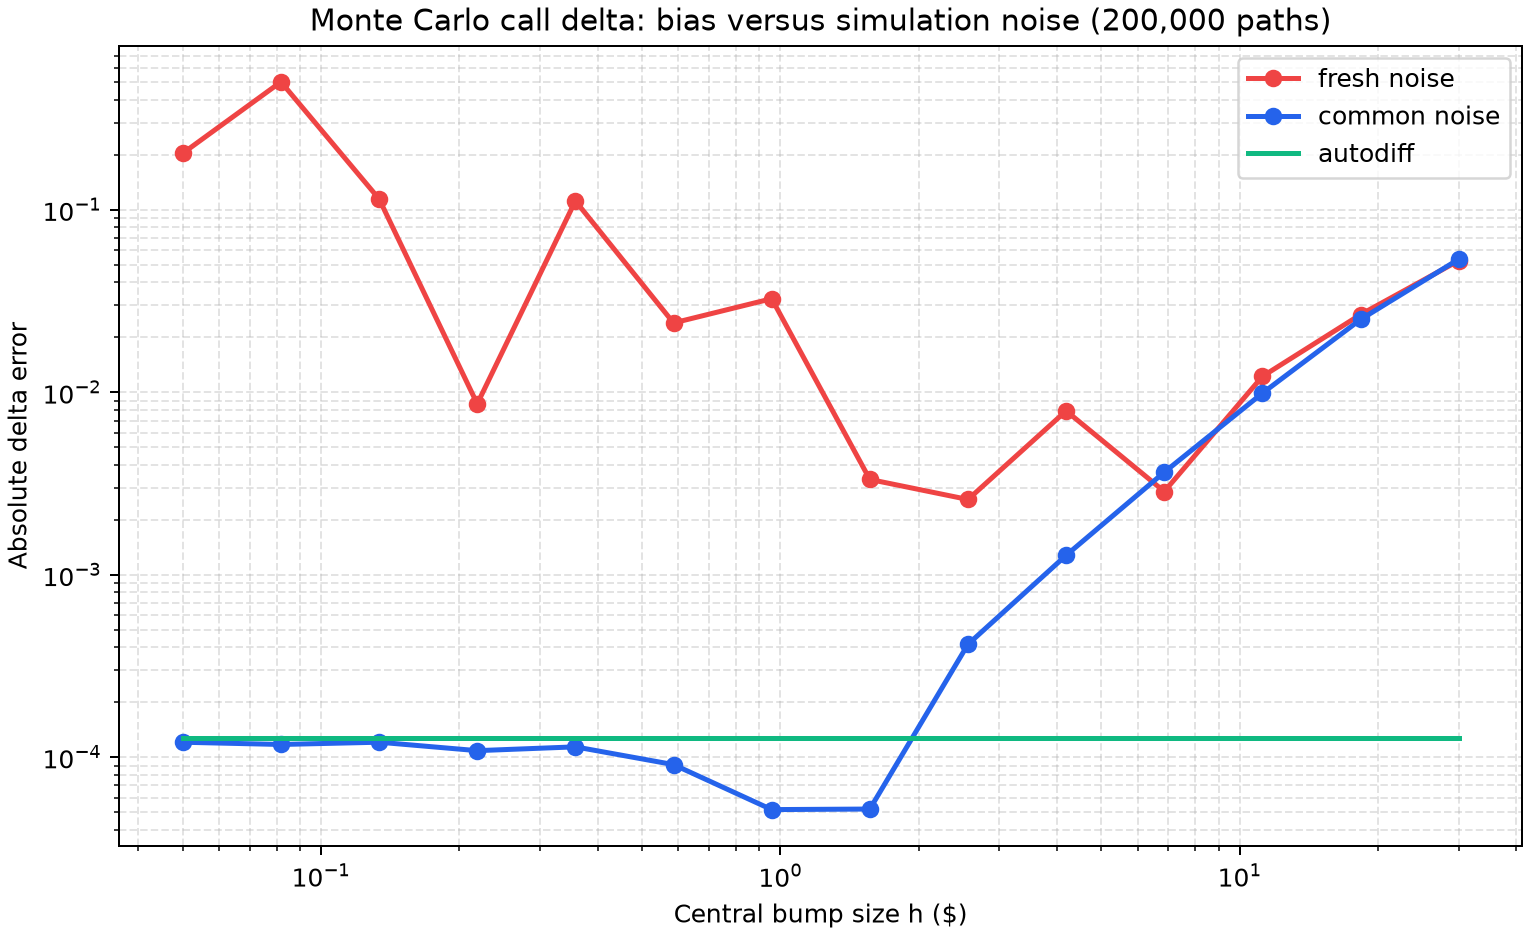
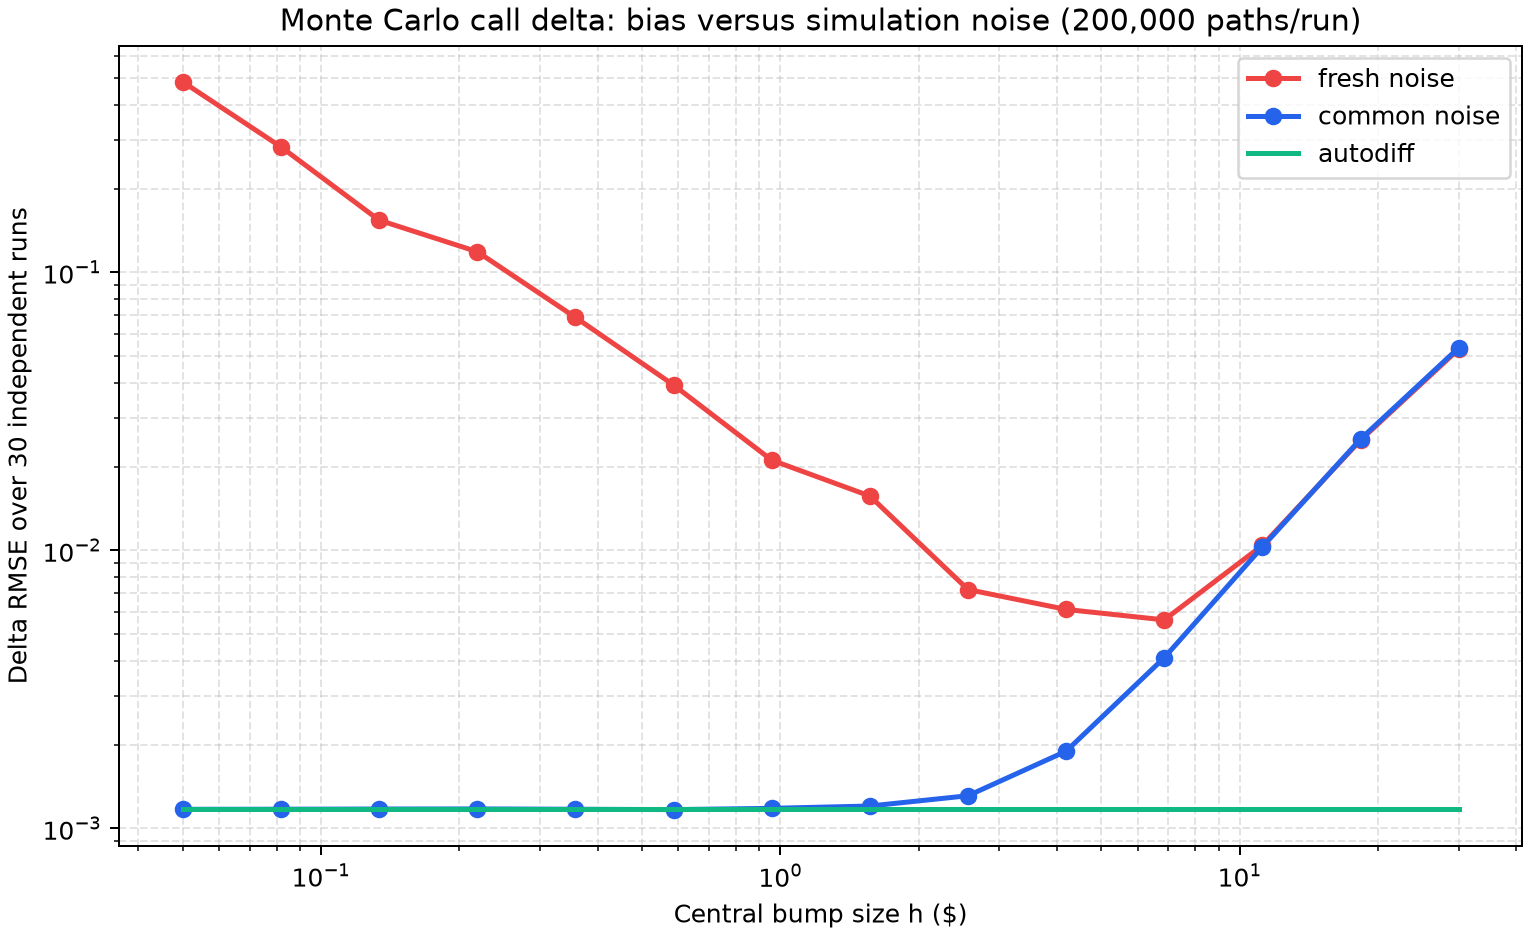
Improve Greeks Monte Carlo experiments

diff --git a/02-greeks-autodiff/src/run_analysis.py b/02-greeks-autodiff/src/run_analysis.py
@@ -38,40 +38,80 @@ def run(num_paths: int = 200_000) -> None:
 
     RESULTS.mkdir(exist_ok=True)
     option = Option()
-    key = jax.random.PRNGKey(SEED)
-    keys = jax.random.split(key, 2 * 14 + 2)
+    bumps = np.geomspace(0.05, 30.0, 14)
+    repeats = 30
+    temperatures = (0.05, 0.1, 0.25, 0.5, 1.0, 2.0)
+    keys = jax.random.split(
+        jax.random.PRNGKey(SEED),
+        2 + repeats * (1 + 2 * len(bumps)),
+    )
     z_price = jax.random.normal(keys[0], (num_paths,), dtype=jnp.float64)
     z_gamma = jax.random.normal(keys[1], (num_paths,), dtype=jnp.float64)
     exact_price, exact_delta, exact_gamma = black_scholes_price_delta_gamma(option)
 
     price = price_mc(option.spot, z_price, option)
     autodiff = delta_autodiff(option.spot, z_price, option)
-    bumps = np.geomspace(0.05, 30.0, 14)
     rows: list[dict[str, float | str]] = []
 
+    delta_samples: dict[str, list[list[float]]] = {
+        method: [[] for _ in bumps]
+        for method in ("fresh noise", "common noise", "autodiff")
+    }
+    delta_standard_errors: dict[str, list[list[float]]] = {
+        method: [[] for _ in bumps]
+        for method in ("fresh noise", "common noise", "autodiff")
+    }
+    keys_per_repeat = 1 + 2 * len(bumps)
+    for repeat in range(repeats):
+        key_offset = 2 + repeat * keys_per_repeat
+        z_common = jax.random.normal(keys[key_offset], (num_paths,), dtype=jnp.float64)
+        autodiff_repeat = delta_autodiff(option.spot, z_common, option)
+        for index, bump in enumerate(bumps):
+            z_up = jax.random.normal(
+                keys[key_offset + 1 + 2 * index], (num_paths,), dtype=jnp.float64
+            )
+            z_down = jax.random.normal(
+                keys[key_offset + 2 + 2 * index], (num_paths,), dtype=jnp.float64
+            )
+            estimates = (
+                ("fresh noise", delta_fresh_noise(option.spot, float(bump), z_up, z_down, option)),
+                ("common noise", delta_common_noise(option.spot, float(bump), z_common, option)),
+                ("autodiff", autodiff_repeat),
+            )
+            for method, estimate in estimates:
+                delta_samples[method][index].append(estimate.value)
+                delta_standard_errors[method][index].append(estimate.standard_error)
+
     for index, bump in enumerate(bumps):
-        z_up = jax.random.normal(keys[2 + 2 * index], (num_paths,), dtype=jnp.float64)
-        z_down = jax.random.normal(keys[3 + 2 * index], (num_paths,), dtype=jnp.float64)
-        fresh = delta_fresh_noise(option.spot, float(bump), z_up, z_down, option)
-        common = delta_common_noise(option.spot, float(bump), z_price, option)
-        for method, estimate in (
-            ("fresh noise", fresh),
-            ("common noise", common),
-            ("autodiff", autodiff),
-        ):
+        for method in ("fresh noise", "common noise", "autodiff"):
+            sample_values = np.asarray(delta_samples[method][index])
+            mean_estimate = float(sample_values.mean())
+            rmse = float(np.sqrt(np.mean((sample_values - exact_delta) ** 2)))
             rows.append(
                 {
                     "method": method,
                     "bump": float(bump),
-                    "estimate": estimate.value,
-                    "absolute_error": abs(estimate.value - exact_delta),
-                    "standard_error": estimate.standard_error,
+                    "runs": repeats,
+                    "mean_estimate": mean_estimate,
+                    "rmse": rmse,
+                    "mean_standard_error": float(
+                        np.mean(delta_standard_errors[method][index])
+                    ),
                 }
             )
 
     with (RESULTS / "delta_estimates.csv").open("w", newline="") as file:
         writer = csv.DictWriter(
-            file, fieldnames=("method", "bump", "estimate", "absolute_error", "standard_error")
+            file,
+            fieldnames=(
+                "method",
+                "bump",
+                "runs",
+                "mean_estimate",
+                "rmse",
+                "mean_standard_error",
+            ),
+            lineterminator="\n",
         )
         writer.writeheader()
         writer.writerows(rows)
@@ -82,7 +122,7 @@ def run(num_paths: int = 200_000) -> None:
         method_rows = [row for row in rows if row["method"] == method]
         ax.loglog(
             [row["bump"] for row in method_rows],
-            [max(row["absolute_error"], 1e-8) for row in method_rows],
+            [row["rmse"] for row in method_rows],
             marker="o" if method != "autodiff" else None,
             linewidth=2,
             color=colors[method],
@@ -90,18 +130,52 @@ def run(num_paths: int = 200_000) -> None:
         )
     ax.set(
         xlabel="Central bump size h ($)",
-        ylabel="Absolute delta error",
-        title=f"Monte Carlo call delta: bias versus simulation noise ({num_paths:,} paths)",
+        ylabel=f"Delta RMSE over {repeats} independent runs",
+        title=f"Monte Carlo call delta: bias versus simulation noise ({num_paths:,} paths/run)",
     )
     ax.grid(True, which="both", linestyle="--", alpha=0.35)
     ax.legend()
     fig.savefig(RESULTS / "delta_error.png", dpi=180)
     plt.close(fig)
 
+    gamma_smoothing = [
+        (
+            temperature,
+            gamma_smoothed_autodiff(option.spot, z_gamma, option, temperature),
+        )
+        for temperature in temperatures
+    ]
+    fig, ax = plt.subplots(figsize=(8.5, 5.2), layout="constrained")
+    smoothing_values = [estimate.value for _, estimate in gamma_smoothing]
+    smoothing_errors = [2.0 * estimate.standard_error for _, estimate in gamma_smoothing]
+    ax.errorbar(
+        temperatures,
+        smoothing_values,
+        yerr=smoothing_errors,
+        marker="o",
+        capsize=4,
+        linewidth=2,
+        color="#2563eb",
+        label="Softplus gamma ±2 SE",
+    )
+    ax.axhline(exact_gamma, color="#10b981", linestyle="--", label="Black-Scholes gamma")
+    ax.set_xscale("log")
+    ax.set(
+        xlabel="Softplus temperature τ ($)",
+        ylabel="Gamma estimate",
+        title=f"Softplus gamma: smoothing bias and Monte Carlo uncertainty ({num_paths:,} paths)",
+    )
+    ax.grid(True, which="both", linestyle="--", alpha=0.35)
+    ax.legend()
+    fig.savefig(RESULTS / "gamma_softplus_sweep.png", dpi=180)
+    plt.close(fig)
+
     gamma_estimates = (
         ("naive pathwise autodiff", gamma_naive_autodiff(option.spot, z_gamma, option)),
         ("likelihood ratio", gamma_likelihood_ratio(option.spot, z_gamma, option)),
-        ("softplus autodiff (tau=0.5)", gamma_smoothed_autodiff(option.spot, z_gamma, option, 0.5)),
+        ("softplus autodiff (tau=0.5)", next(
+            estimate for temperature, estimate in gamma_smoothing if temperature == 0.5
+        )),
         ("finite difference of delta (h=0.5)", gamma_finite_difference_delta(option.spot, 0.5, z_gamma, option)),
     )
     summary_rows = [
@@ -133,8 +207,21 @@ def run(num_paths: int = 200_000) -> None:
         }
         for label, estimate in gamma_estimates
     )
+    summary_rows.extend(
+        {
+            "greek": "gamma",
+            "method": f"softplus autodiff (tau={temperature:g})",
+            "estimate": estimate.value,
+            "black_scholes": exact_gamma,
+            "absolute_error": abs(estimate.value - exact_gamma),
+            "standard_error": estimate.standard_error,
+        }
+        for temperature, estimate in gamma_smoothing
+    )
     with (RESULTS / "greek_estimates.csv").open("w", newline="") as file:
-        writer = csv.DictWriter(file, fieldnames=summary_rows[0].keys())
+        writer = csv.DictWriter(
+            file, fieldnames=summary_rows[0].keys(), lineterminator="\n"
+        )
         writer.writeheader()
         writer.writerows(summary_rows)
 
@@ -147,9 +234,16 @@ def run(num_paths: int = 200_000) -> None:
             f"  {label:38s} {estimate.value:.6f} "
             f"(SE {estimate.standard_error:.6f}, error {abs(estimate.value - exact_gamma):.6f})"
         )
+    print("\nSoftplus gamma temperature sweep (estimate ± 2 SE):")
+    for temperature, estimate in gamma_smoothing:
+        print(
+            f"  tau={temperature:4.2f}: {estimate.value:.6f} "
+            f"+/- {2 * estimate.standard_error:.6f}"
+        )
     print(
         f"\nWrote {RESULTS / 'delta_error.png'}, "
-        f"{RESULTS / 'delta_estimates.csv'}, and {RESULTS / 'greek_estimates.csv'}"
+        f"{RESULTS / 'delta_estimates.csv'}, {RESULTS / 'greek_estimates.csv'}, "
+        f"and {RESULTS / 'gamma_softplus_sweep.png'}"
     )
 
 

diff --git a/02-greeks-autodiff/tests/test_greeks.py b/02-greeks-autodiff/tests/test_greeks.py
@@ -60,7 +60,7 @@ def test_gamma_fixes_match_black_scholes(sample, estimator):
     option, z = sample
     _, _, exact_gamma = black_scholes_price_delta_gamma(option)
     estimate = estimator(option.spot, z, option)
-    assert abs(estimate.value - exact_gamma) < max(4 * estimate.standard_error, 0.0015)
+    assert abs(estimate.value - exact_gamma) < 4 * estimate.standard_error
 
 
 def test_invalid_path_count_or_bump_raise(sample):

diff --git a/02-greeks-autodiff/README.md b/02-greeks-autodiff/README.md
@@ -4,11 +4,21 @@
 
 ## Key result: delta error versus bump size
 
-![Absolute delta error for fresh-noise bumps, common-random-number bumps, and autodiff](results/delta_error.png)
+![Delta RMSE over 30 independent runs for fresh-noise bumps, common-random-number bumps, and autodiff](results/delta_error.png)
+
+At the default seed and 200,000 paths, the gamma estimates are:
+
+| Method | Gamma | Standard error |
+|---|---:|---:|
+| Naive pathwise autodiff | 0.00000 | exactly zero by construction |
+| Likelihood ratio | 0.01835 | 0.00029 |
+| Softplus autodiff (`τ = 0.5`) | 0.01889 | 0.00017 |
+| Finite difference of delta (`h = 0.5`) | 0.01879 | 0.00030 |
+| **Black-Scholes** | **0.01876** | — |
 
 The fresh-noise central difference becomes unstable as `h` shrinks: independent pricing noise is divided by `2h`. Reusing the same normal draws cancels most of that noise, leaving central-difference bias as the bump grows. Pathwise `jax.grad` has no bump-size choice; its estimate still has Monte Carlo sampling error. The fixed seed makes this experiment reproducible.
 
-The experiment saves each delta estimate and standard error in [`results/delta_estimates.csv`](results/delta_estimates.csv), and the price/delta/gamma comparison in [`results/greek_estimates.csv`](results/greek_estimates.csv). To regenerate the plot and tables:
+The experiment saves delta RMSEs and per-run standard errors in [`results/delta_estimates.csv`](results/delta_estimates.csv), and the price/delta/gamma comparison in [`results/greek_estimates.csv`](results/greek_estimates.csv). To regenerate the plot and tables:
 
 ```bash
 python -m venv .venv
@@ -26,7 +36,7 @@ Under the risk-neutral measure the terminal stock is sampled as
 S_T = S_0 exp((r - σ²/2)T + σ√T Z),  Z ~ N(0, 1)
 ```
 
-The discounted European call value is the sample mean of `exp(-rT) max(S_T - K, 0)`. The default experiment uses 200,000 paths, `S0 = K = 100`, `r = 5%`, `σ = 20%`, `T = 1`, and 64-bit JAX floats. The seed is 2026. Every estimate reports its standard error (sample standard deviation divided by the square root of its path count).
+The discounted European call value is the sample mean of `exp(-rT) max(S_T - K, 0)`. This is a single at-the-money call (`S0 = K = 100`) with `r = 5%`, `σ = 20%`, `T = 1`; it does not claim to cover other strikes, maturities, or parameter regimes. The default experiment uses 200,000 paths per run and 30 independent runs for the delta-error curves, with 64-bit JAX floats and seed 2026. JAX is pinned to 0.10.2 for reproducible output. Per-run estimates report standard errors (sample standard deviation divided by the square root of the path count); the delta plot aggregates absolute errors using root-mean-square error over the 30 runs.
 
 ## Three delta estimates
 
@@ -34,7 +44,7 @@ The discounted European call value is the sample mean of `exp(-rT) max(S_T - K, 
 * **Common-random-number bump:** uses identical normal draws for both repricings. This strongly reduces variance; the remaining approximation has central-difference bias.
 * **Pathwise autodiff:** differentiates the mean simulated payoff with `jax.grad`. For this payoff, its expected derivative equals the Black-Scholes delta `N(d1)`.
 
-The graph plots absolute error against bump size on a log-log scale; the autodiff error is a horizontal reference because it does not depend on `h`. The accompanying CSV includes standard errors so sampling uncertainty is visible alongside the realized errors.
+The graph plots RMSE against bump size on a log-log scale; averaging over 30 independent runs makes the fresh-noise curve show the expected rise as `h` shrinks. The autodiff RMSE is a horizontal reference because it does not depend on `h`. The accompanying CSV records run count, mean estimate, RMSE, and average per-run standard error.
 
 ## The gamma trap
 
@@ -47,3 +57,9 @@ The call payoff is piecewise linear. On every simulated path its second derivati
 3. **Finite difference of pathwise delta:** bump the autodiff delta with common random numbers. This recovers curvature statistically, with a bump-size/variance trade-off of its own.
 
 The formulas are tested against the closed-form Black-Scholes price, delta, and gamma. Tests also assert that naive pathwise gamma is zero, making the failure explicit rather than silently accepting it as a valid Greek.
+
+The naive estimate's zero standard error is not a claim of certainty: every sampled path has zero second derivative away from the payoff kink, so the pathwise estimator itself is identically zero. The test suite requires each stochastic gamma fix to land within four of its own Monte Carlo standard errors of the exact answer.
+
+The softplus temperature controls a smoothing-bias versus sampling-uncertainty trade-off. The sweep below plots each estimate with a ±2 standard-error interval; its numeric estimates are included in `greek_estimates.csv`.
+
+![Softplus gamma estimate and Monte Carlo uncertainty across smoothing temperatures](results/gamma_softplus_sweep.png)
